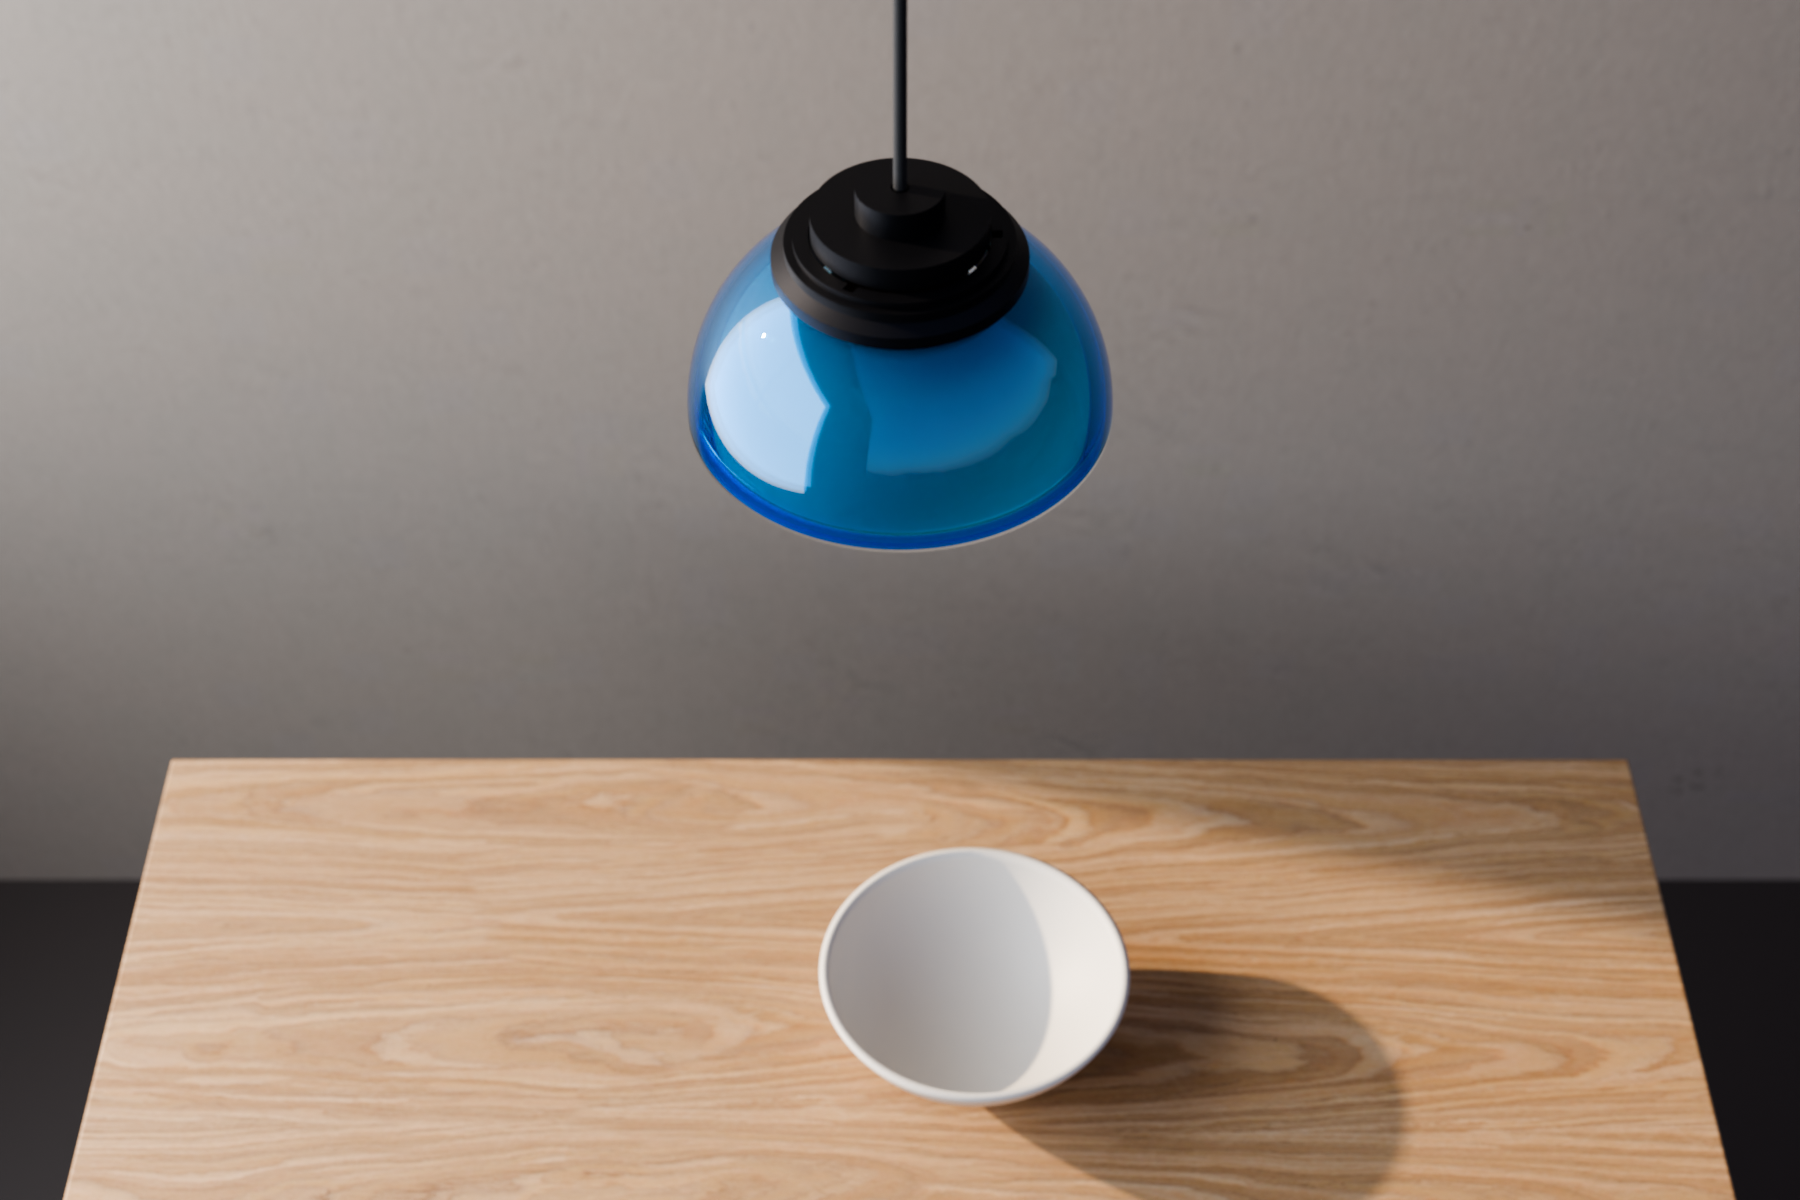
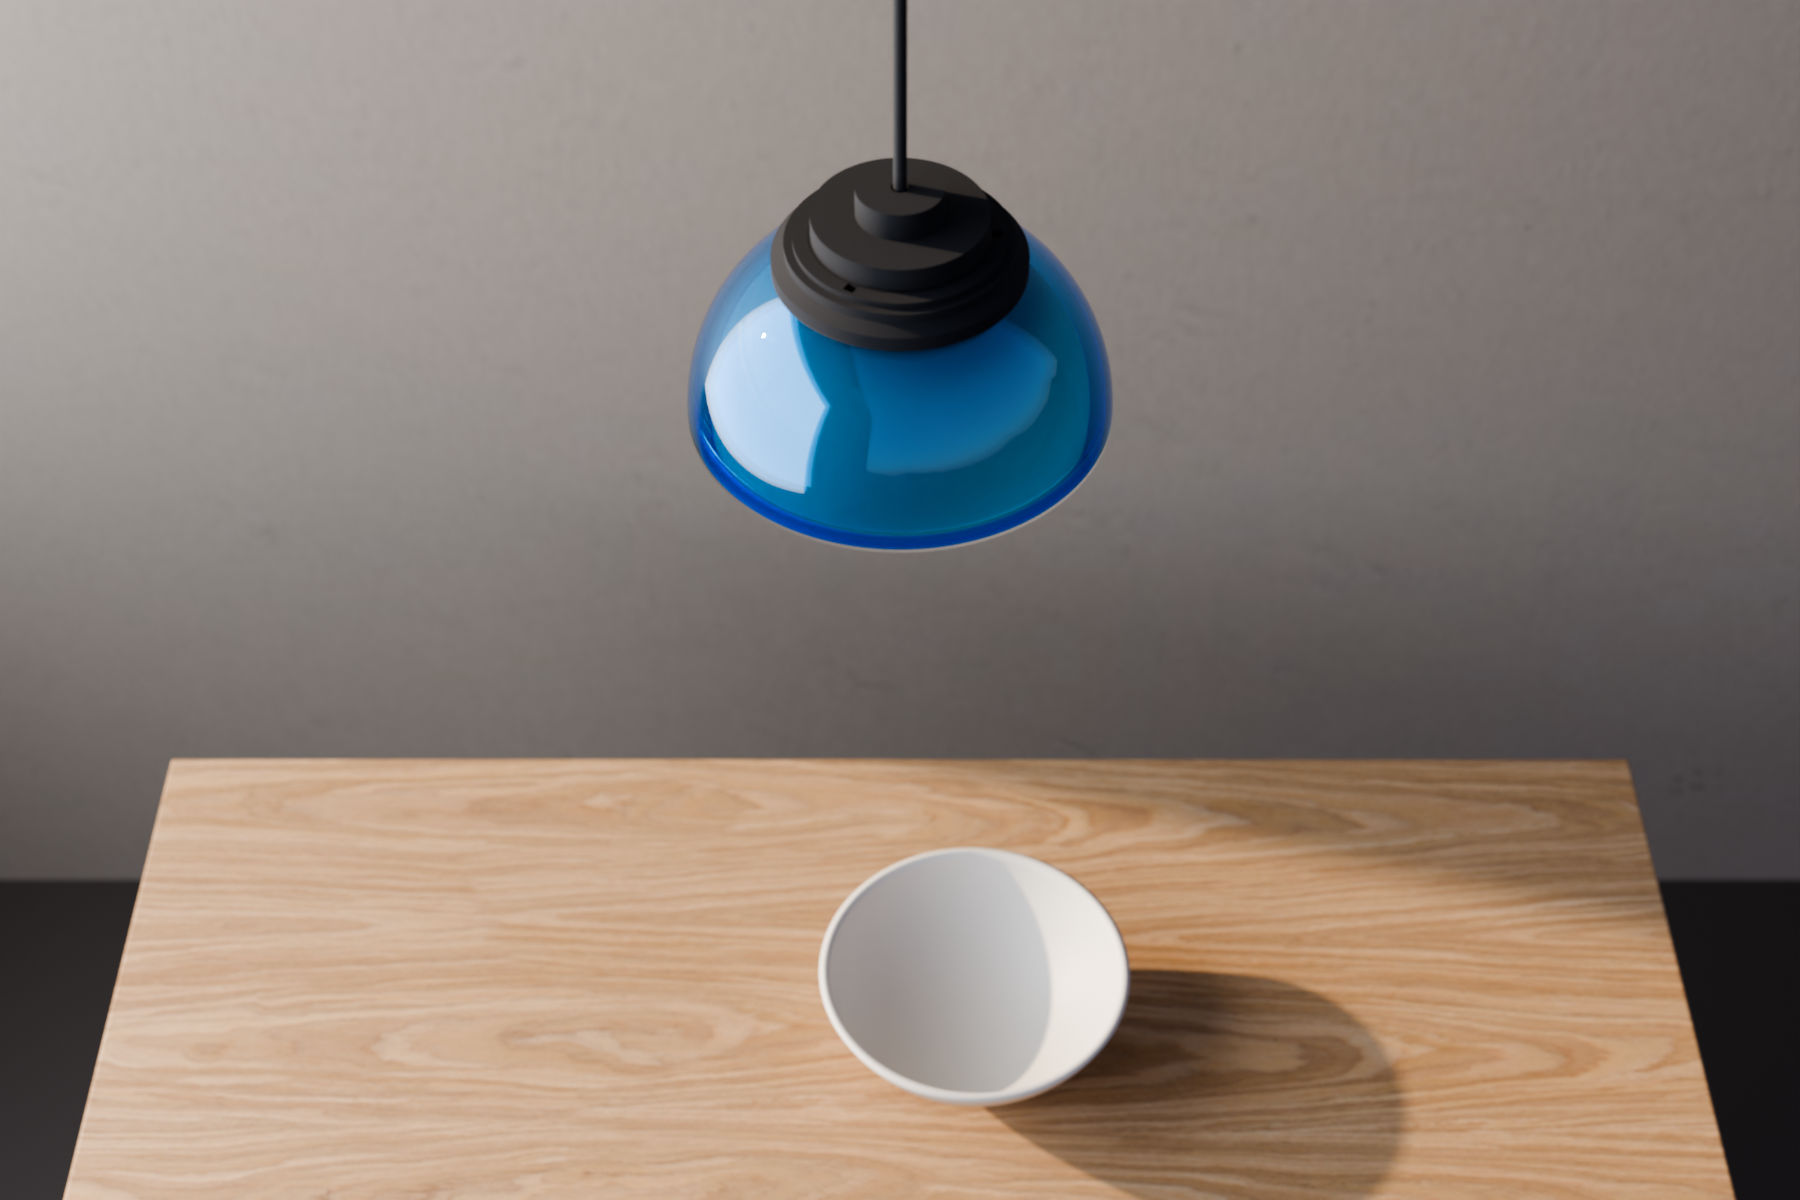
Lamp pictures round 8: Hemisphere pair (matte cap, PEEK ring in, dome lit, pool lowered); Core ball-in-a-ball proxy day; Core LED back to a soft spot with indirect clamping
Claude-Session: https://claude.ai/code/session_01VCPNDaozJgar2mVTSvis3A

Changed region(s): [[0.4044, 0.1233, 0.56, 0.3083]]

diff --git a/spinoffs/barkhorn/companions/lamp_pictures.py b/spinoffs/barkhorn/companions/lamp_pictures.py
@@ -156,10 +156,8 @@ def build(frame, samples, scale):
             # at full: a real light, up into the ball; its light reaches the room only through the acrylic
             # round 8 (the gate: a hotspot cone at the base): the LED behind the window as a Lambertian disc the
             # window's size, not a 160 deg spot
-            ld = bpy.data.lights.new('led', 'AREA'); ld.shape = 'DISK'; ld.size = 0.0296; ld.energy = LED_W * 0.45   # the spot's cone held about 45 %
-            ld.color = blackbody(cct); ld.cycles.is_caustics_light = True
-            ob = bpy.data.objects.new('led', ld); bpy.context.scene.collection.objects.link(ob)
-            ob.location = (0, 0, z0 + 0.0150)
+            # (the disc speckled at full samples: back to a point source, a full hemisphere with a soft edge)
+            light('led', 'SPOT', (0, 0, z0 + 0.0148), LED_W, 0.012, spot=180.0).data.spot_blend = 1.0
             led = bpy.data.meshes.new('led-face'); bm = bmesh.new()
             bmesh.ops.create_circle(bm, cap_ends=True, segments=48, radius=0.013); bm.to_mesh(led); bm.free()
             lo = bpy.data.objects.new('led-face', led); bpy.context.scene.collection.objects.link(lo)
@@ -257,6 +255,8 @@ def build(frame, samples, scale):
         exposure = 0.0
     SC.render_settings(1800, 1200, samples, scale, exposure=exposure, look='AgX - Medium High Contrast')
     bpy.context.scene.cycles.caustics_refractive = True
+    if night and prod == 'core':   # round 8: the denoiser drew dark blotches round rare bright paths in the frost
+        bpy.context.scene.cycles.sample_clamp_indirect = 10.0; bpy.context.scene.cycles.blur_glossy = 1.0
     SC.camera(cam[0], cam[1], lens=cam[2], fstop=5.6)
     os.makedirs(OUT, exist_ok=True)
     out = os.environ.get('LAMP_OUT') or os.path.join(OUT, frame + '.png')
